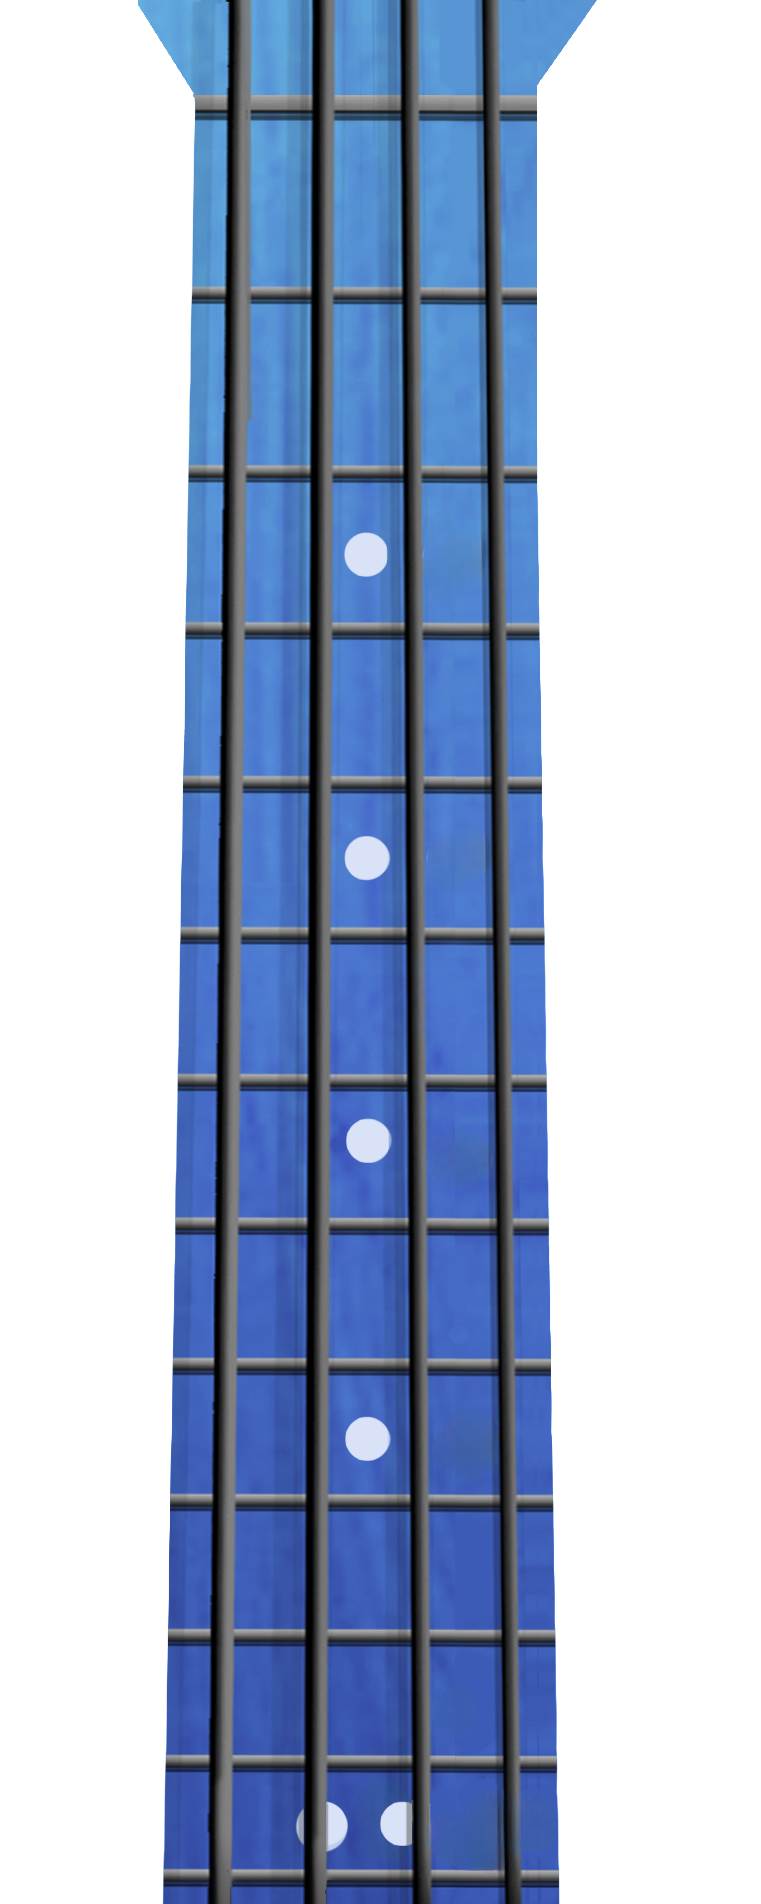
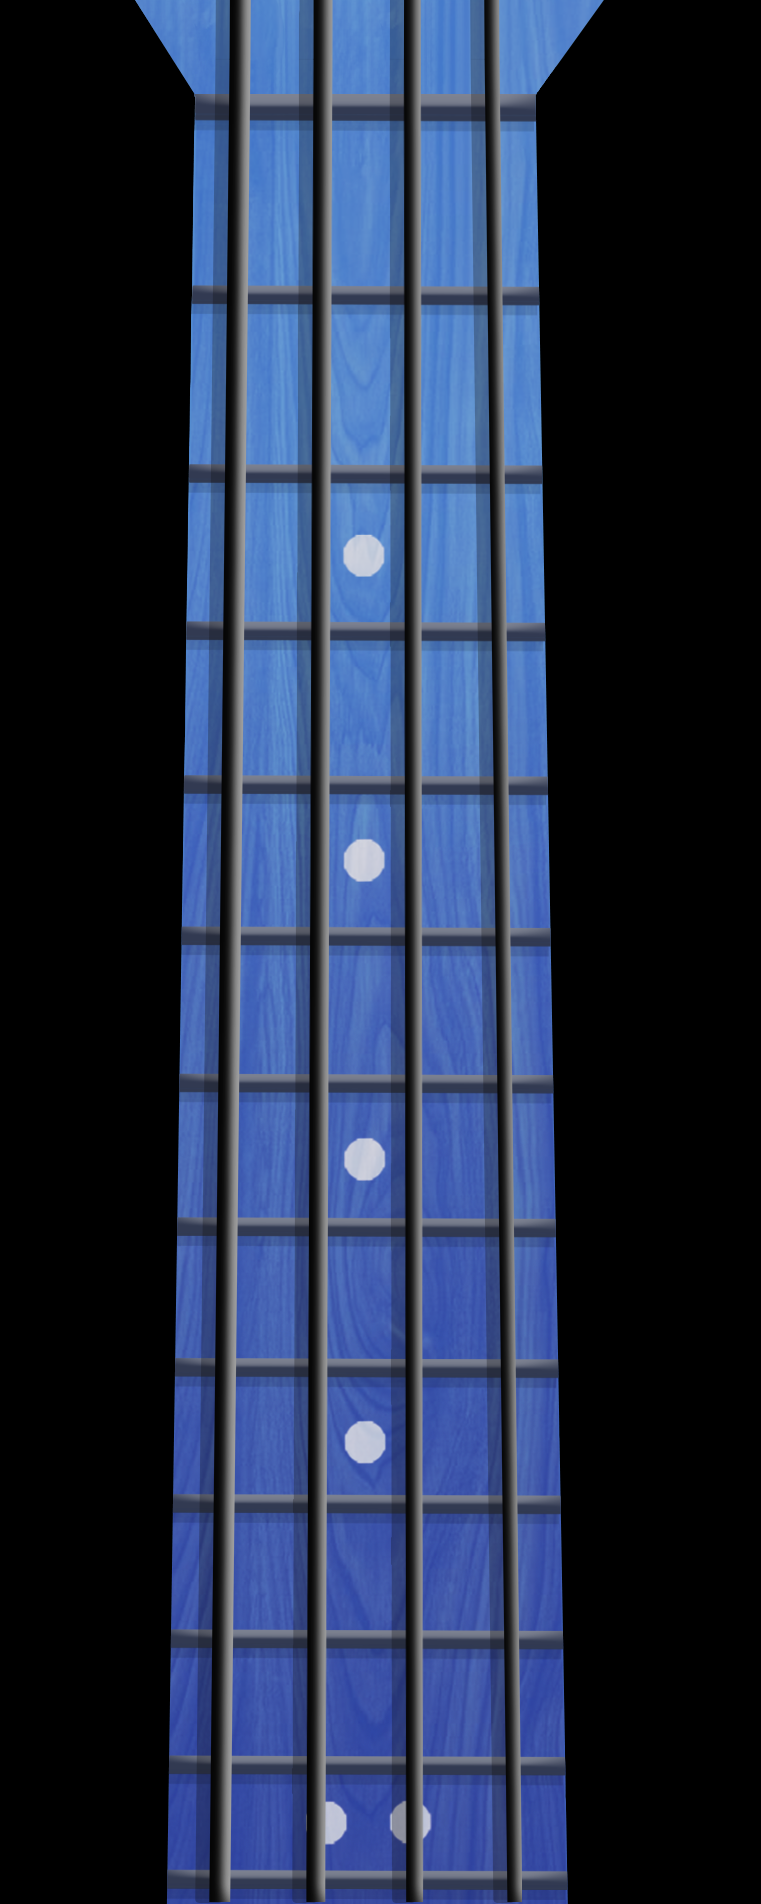
Update build assets and bass grid image

diff --git a/www/script.js b/www/script.js
@@ -90,82 +90,84 @@ const liveOffsets = {};
 const baseCellPositions = {};
 
 const bassOffsets = {
-  "btn1-string-6": { dx: 15, dy: 0 },
-  "btn1-string-5": { dx: 46, dy: 0 },
-  "btn1-string-4": { dx: 81, dy: 0 },
+  "btn1-string-6": { dx: 18, dy: 0 },
+  "btn1-string-5": { dx: 49, dy: 0 },
+  "btn1-string-4": { dx: 84, dy: 0 },
   "btn1-string-3": { dx: 103, dy: 0 },
+  "btn1-string-2": { dx: 47, dy: 0 },
+  "btn1-string-1": { dx: -2, dy: 0 },
   "btn2-string-6": { dx: 20, dy: 60 },
   "btn2-string-5": { dx: 46, dy: 60 },
-  "btn2-string-4": { dx: 81, dy: 60 },
+  "btn2-string-4": { dx: 84, dy: 60 },
   "btn2-string-3": { dx: 106, dy: 60 },
-  "btn2-string-2": { dx: 0, dy: 60 },
-  "btn2-string-1": { dx: 0, dy: 60 },
+  "btn2-string-2": { dx: 46, dy: 60 },
+  "btn2-string-1": { dx: -3, dy: 60 },
   "btn3-string-6": { dx: 17, dy: 100 },
   "btn3-string-5": { dx: 48, dy: 100 },
   "btn3-string-4": { dx: 84, dy: 100 },
   "btn3-string-3": { dx: 106, dy: 100 },
-  "btn3-string-2": { dx: 0, dy: 100 },
-  "btn3-string-1": { dx: 0, dy: 100 },
+  "btn3-string-2": { dx: 46, dy: 100 },
+  "btn3-string-1": { dx: -5, dy: 100 },
   "btn4-string-6": { dx: 16, dy: 118 },
-  "btn4-string-5": { dx: 47, dy: 118 },
+  "btn4-string-5": { dx: 53, dy: 118 },
   "btn4-string-4": { dx: 85, dy: 118 },
   "btn4-string-3": { dx: 109, dy: 118 },
-  "btn4-string-2": { dx: 0, dy: 118 },
-  "btn4-string-1": { dx: 0, dy: 118 },
+  "btn4-string-2": { dx: 51, dy: 118 },
+  "btn4-string-1": { dx: -7, dy: 118 },
   "btn5-string-6": { dx: 16, dy: 160 },
-  "btn5-string-5": { dx: 58, dy: 160 },
+  "btn5-string-5": { dx: 64, dy: 160 },
   "btn5-string-4": { dx: 85, dy: 160 },
   "btn5-string-3": { dx: 111, dy: 160 },
-  "btn5-string-2": { dx: 0, dy: 160 },
-  "btn5-string-1": { dx: 0, dy: 160 },
+  "btn5-string-2": { dx: 49, dy: 160 },
+  "btn5-string-1": { dx: 4, dy: 160 },
   "btn6-string-6": { dx: 16, dy: 217 },
-  "btn6-string-5": { dx: 49, dy: 217 },
-  "btn6-string-4": { dx: 85, dy: 217 },
+  "btn6-string-5": { dx: 52, dy: 217 },
+  "btn6-string-4": { dx: 88, dy: 217 },
   "btn6-string-3": { dx: 111, dy: 217 },
-  "btn6-string-2": { dx: 0, dy: 217 },
-  "btn6-string-1": { dx: 0, dy: 217 },
+  "btn6-string-2": { dx: 51, dy: 217 },
+  "btn6-string-1": { dx: -12, dy: 217 },
   "btn7-string-6": { dx: 18, dy: 260 },
-  "btn7-string-5": { dx: 50, dy: 260 },
+  "btn7-string-5": { dx: 53, dy: 260 },
   "btn7-string-4": { dx: 88, dy: 260 },
   "btn7-string-3": { dx: 114, dy: 260 },
-  "btn7-string-2": { dx: 0, dy: 260 },
-  "btn7-string-1": { dx: 0, dy: 260 },
+  "btn7-string-2": { dx: 50, dy: 260 },
+  "btn7-string-1": { dx: -10, dy: 260 },
   "btn8-string-6": { dx: 35, dy: 302 },
-  "btn8-string-5": { dx: 58, dy: 302 },
-  "btn8-string-4": { dx: 93, dy: 302 },
+  "btn8-string-5": { dx: 61, dy: 302 },
+  "btn8-string-4": { dx: 90, dy: 302 },
   "btn8-string-3": { dx: 123, dy: 302 },
-  "btn8-string-2": { dx: 0, dy: 302 },
-  "btn8-string-1": { dx: 0, dy: 302 },
+  "btn8-string-2": { dx: 68, dy: 302 },
+  "btn8-string-1": { dx: 6, dy: 302 },
   "btn9-string-6": { dx: 21, dy: 346 },
-  "btn9-string-5": { dx: 51, dy: 346 },
-  "btn9-string-4": { dx: 92, dy: 346 },
+  "btn9-string-5": { dx: 54, dy: 346 },
+  "btn9-string-4": { dx: 89, dy: 346 },
   "btn9-string-3": { dx: 120, dy: 346 },
-  "btn9-string-2": { dx: 0, dy: 346 },
-  "btn9-string-1": { dx: 0, dy: 346 },
+  "btn9-string-2": { dx: 59, dy: 346 },
+  "btn9-string-1": { dx: -7, dy: 346 },
   "btn10-string-6": { dx: 20, dy: 377 },
-  "btn10-string-5": { dx: 53, dy: 377 },
+  "btn10-string-5": { dx: 56, dy: 377 },
   "btn10-string-4": { dx: 92, dy: 377 },
   "btn10-string-3": { dx: 123, dy: 377 },
-  "btn10-string-2": { dx: 0, dy: 377 },
-  "btn10-string-1": { dx: 0, dy: 377 },
+  "btn10-string-2": { dx: 61, dy: 377 },
+  "btn10-string-1": { dx: -5, dy: 377 },
   "btn11-string-6": { dx: 34, dy: 417 },
-  "btn11-string-5": { dx: 57, dy: 417 },
+  "btn11-string-5": { dx: 60, dy: 417 },
   "btn11-string-4": { dx: 94, dy: 417 },
   "btn11-string-3": { dx: 126, dy: 417 },
-  "btn11-string-2": { dx: 0, dy: 417 },
-  "btn11-string-1": { dx: 0, dy: 417 },
+  "btn11-string-2": { dx: 64, dy: 417 },
+  "btn11-string-1": { dx: -8, dy: 417 },
   "btn12-string-6": { dx: 23, dy: 460 },
-  "btn12-string-5": { dx: 56, dy: 460 },
+  "btn12-string-5": { dx: 59, dy: 460 },
   "btn12-string-4": { dx: 96, dy: 460 },
   "btn12-string-3": { dx: 126, dy: 460 },
-  "btn12-string-2": { dx: 0, dy: 460 },
-  "btn12-string-1": { dx: 0, dy: 460 },
+  "btn12-string-2": { dx: 60, dy: 460 },
+  "btn12-string-1": { dx: -16, dy: 460 },
   "btn13-string-6": { dx: 22, dy: 485 },
-  "btn13-string-5": { dx: 54, dy: 485 },
-  "btn13-string-4": { dx: 96, dy: 485 },
+  "btn13-string-5": { dx: 57, dy: 485 },
+  "btn13-string-4": { dx: 90, dy: 485 },
   "btn13-string-3": { dx: 124, dy: 485 },
-  "btn13-string-2": { dx: 0, dy: 485 },
-  "btn13-string-1": { dx: 0, dy: 485 },
+  "btn13-string-2": { dx: 63, dy: 485 },
+  "btn13-string-1": { dx: -5, dy: 485 },
 };
 
 function initSvgGrid() {
@@ -265,6 +267,37 @@ function initSvgGrid() {
       svg.appendChild(rect); svg.appendChild(circle); svg.appendChild(text);
       svgCells[key] = { rect, circle, text, scaleNoteCircle, rootHlCircle, bluesHlCircle, rootHlText, bluesHlText };
       rect.addEventListener('click', handleFretClick);
+      rect.addEventListener('pointerdown', () => {
+        if (!document.body.classList.contains('scales-mode')) return;
+        const cell = svgCells[key];
+        const dotMap = [
+          { el: cell.scaleNoteCircle, orig: 'rgb(130,40,210)' },
+          { el: cell.rootHlCircle,    orig: 'rgb(210,40,40)' },
+          { el: cell.bluesHlCircle,   orig: 'rgb(15,45,140)' }
+        ];
+        for (const { el } of dotMap) {
+          if (el.getAttribute('opacity') === '1') {
+            el.setAttribute('fill', 'darkorange');
+            el._origFill = dotMap.find(d => d.el === el).orig;
+          }
+        }
+      });
+      const restoreScaleDot = () => {
+        if (!document.body.classList.contains('scales-mode')) return;
+        const cell = svgCells[key];
+        const dotMap = [
+          { el: cell.scaleNoteCircle, orig: 'rgb(130,40,210)' },
+          { el: cell.rootHlCircle,    orig: 'rgb(210,40,40)' },
+          { el: cell.bluesHlCircle,   orig: 'rgb(15,45,140)' }
+        ];
+        setTimeout(() => {
+          for (const { el, orig } of dotMap) {
+            if (el.getAttribute('opacity') === '1') el.setAttribute('fill', orig);
+          }
+        }, 300);
+      };
+      rect.addEventListener('pointerup', restoreScaleDot);
+      rect.addEventListener('pointercancel', restoreScaleDot);
     }
   }
 }
@@ -542,6 +575,11 @@ mainButtons.forEach((btn, index) => {
       document.body.classList.add('four-chord-mode');
       startFourChordRound();
     } else if (index === 3) {
+      gameMode = 'chord';
+      chordMode = 'slash';
+      document.body.classList.add('slash-chord-mode');
+      startSlashChordRound();
+    } else if (index === 4) {
       gameMode = 'freeplay';
       document.body.classList.add('free-play-mode', 'scales-mode');
       lockedStrings.clear();
@@ -554,11 +592,6 @@ mainButtons.forEach((btn, index) => {
         cell.circle.setAttribute('opacity', '0');
         cell.text.setAttribute('opacity', '0');
       });
-    } else if (index === 4) {
-      gameMode = 'chord';
-      chordMode = 'slash';
-      document.body.classList.add('slash-chord-mode');
-      startSlashChordRound();
     } else {
       gameMode = 'single';
       headLineEl.innerHTML = 'SINGLE NOTES';

diff --git a/www/index.html b/www/index.html
@@ -33,15 +33,15 @@
         <button class="main-btn">SINGLE NOTES</button>
         <button class="main-btn">TREE NOTES CHORDS</button>
         <button class="main-btn">FOUR NOTES CHORDS</button>
-        <button class="main-btn">SCALES</button>
         <button class="main-btn">SLASH CHORDS</button>
+        <button class="main-btn">SCALES</button>
       </section>
 
       <section class="buttons-row">
         <button class="small-btn" id="bass-btn"><img id="bass-btn-img" src="bassHead.png" alt="bass" style="width:50px;height:50px;object-fit:contain;margin-bottom:-8px;"></button>
         <button class="small-btn" id="feedback-btn" style="padding:6px 8px;"><img src="feadBack.png" style="width:45px;height:43px;object-fit:contain;margin-bottom:8px;transform:translateX(-2px) translateY(4px);"></button>
         <button class="small-btn" id="share-btn"><img src="share.png" style="width:30px;height:30px;object-fit:contain;transform:translateY(-10px);"></button>
-        <button class="small-btn"><img src="settings.png" alt="settings" style="width:34px;height:34px;object-fit:contain;margin-bottom:5px;"></button>
+        <button class="small-btn" id="settings-btn"><img src="settings.png" alt="settings" style="width:34px;height:34px;object-fit:contain;margin-bottom:5px;"></button>
       </section>
       <p class="credit-text" style="font-size:11px;color:rgba(255,255,255,0.4);text-align:left;margin-top:7px;width:100%;font-family:system-ui,sans-serif;">Etzion Brenard Vitali Goel ©</p>
       <div class="bottom-bar">
@@ -182,6 +182,14 @@
 
   <script src="script.js"></script>
   <script type="module" src="firebase-feedback.js"></script>
+
+  <div id="settings-modal" style="display:none;position:fixed;inset:0;background:rgba(0,0,0,0.75);z-index:1000;align-items:center;justify-content:center;">
+    <div style="background:#1a1a2e;border-radius:14px;padding:28px 24px;width:85%;max-width:360px;color:white;font-family:system-ui,sans-serif;">
+      <h3 style="margin:0 0 12px;text-align:center;font-size:18px;letter-spacing:1px;">Settings</h3>
+      <p style="margin:0 0 24px;text-align:center;font-size:13px;color:rgba(255,255,255,0.6);line-height:1.6;">This app is still in beta.</p>
+      <button id="settings-close" style="width:100%;padding:10px;background:#333;color:white;border:none;border-radius:8px;font-size:14px;cursor:pointer;">Close</button>
+    </div>
+  </div>
 
   <div id="feedback-modal" style="display:none;position:fixed;inset:0;background:rgba(0,0,0,0.75);z-index:1000;align-items:center;justify-content:center;">
     <div style="background:#1a1a2e;border-radius:14px;padding:24px;width:85%;max-width:360px;color:white;font-family:system-ui,sans-serif;">

diff --git a/www/firebase-feedback.js b/www/firebase-feedback.js
@@ -65,6 +65,20 @@ modal.addEventListener('click', (e) => {
   }
 });
 
+const settingsBtn = document.getElementById('settings-btn');
+const settingsModal = document.getElementById('settings-modal');
+const settingsClose = document.getElementById('settings-close');
+
+settingsBtn.addEventListener('click', () => {
+  settingsModal.style.display = 'flex';
+});
+settingsClose.addEventListener('click', () => {
+  settingsModal.style.display = 'none';
+});
+settingsModal.addEventListener('click', (e) => {
+  if (e.target === settingsModal) settingsModal.style.display = 'none';
+});
+
 const shareBtn = document.getElementById('share-btn');
 const SHARE_URL = 'https://firebasestorage.googleapis.com/v0/b/fretchamp.firebasestorage.app/o/FretChamp.apk?alt=media&token=59cb5a10-fb15-4715-8305-184fb277f490';
 

diff --git a/www/style.css b/www/style.css
@@ -36,6 +36,8 @@ body {
   background: #000000;
   position: relative;
   padding: 0 32px;
+  max-width: 390px;
+  margin: 0 auto;
 }
 
 .app {
